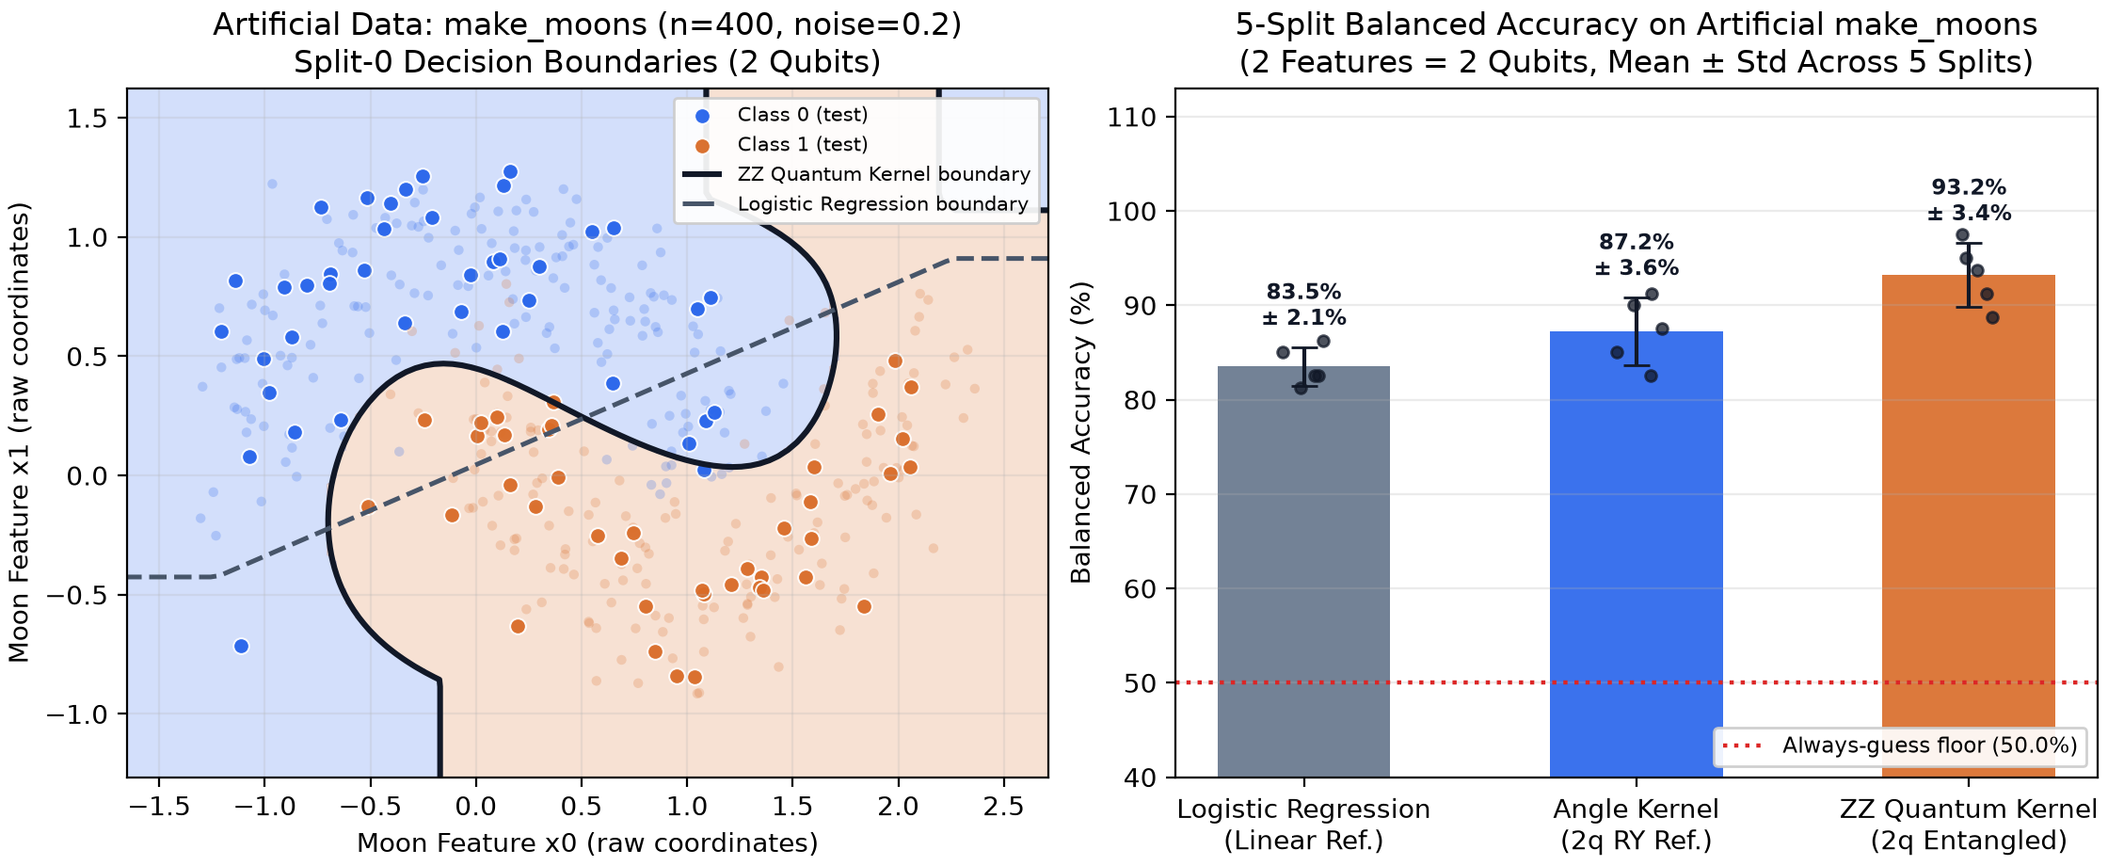
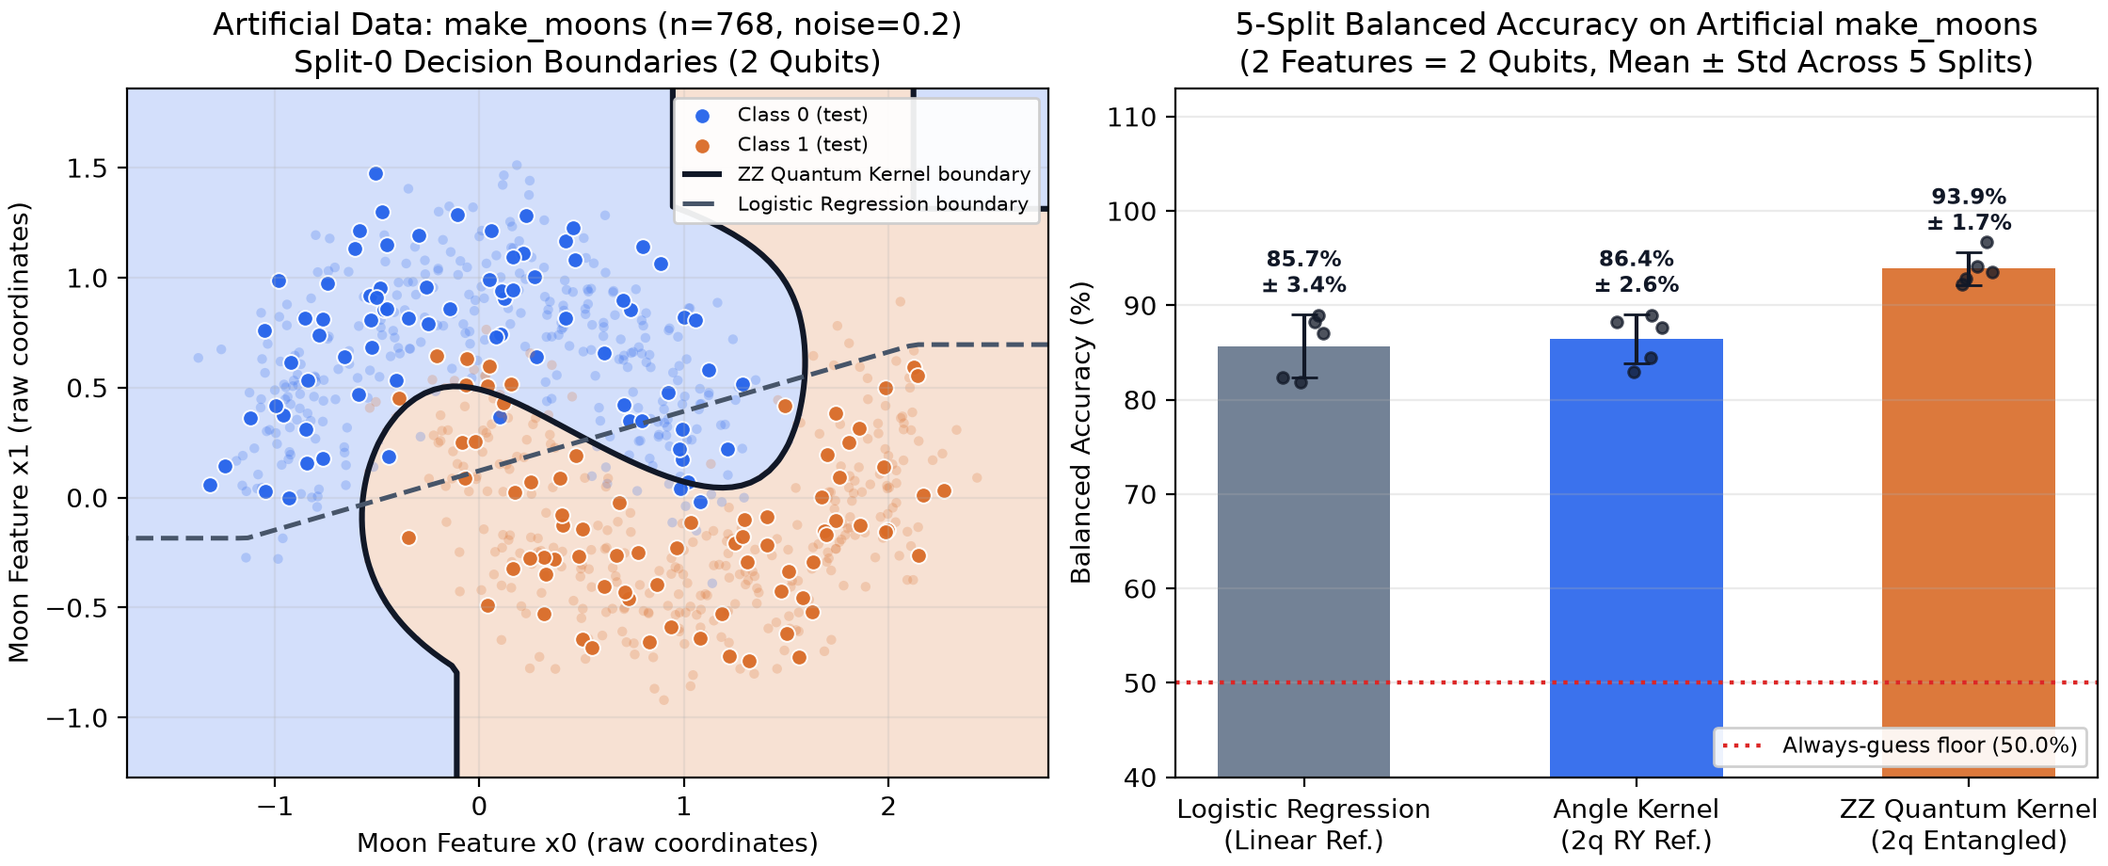
Experiment 5: moons data 400 -> 768 points, rerun, saved logreg/RBF/angle results, notes updated

diff --git a/src/run_exp_d.py b/src/run_exp_d.py
@@ -482,11 +482,50 @@ def report_exp2() -> None:
 
 
 # --------------------------------------------------------------------------- #
+# experiment 5 references: saved moons results for logreg, RBF SVM, angle kernel
+# --------------------------------------------------------------------------- #
+EXP5_REF_NAMES = ("exp5_logreg_moons", "exp5_rbf_svm_moons", "exp5_qkernel_angle_moons")
+
+
+def run_exp5_refs() -> None:
+    """Same data as C's runner (make_moons_dataset), first 5 exams, 2 columns.
+
+    Each model's make_model and PARAM_GRID are imported unchanged. Files go to
+    results/ next to C's results/exp5_qkernel_moons.csv; nothing is overwritten.
+    """
+    from src import model_logreg, model_qkernel, model_rbf_svm
+    from src.experiment_qkernel import make_moons_dataset
+
+    results_dir = ROOT / "results"
+    for name in EXP5_REF_NAMES:
+        _refuse_if_exists(results_dir / f"{name}.csv")
+
+    X_moons, y_moons = make_moons_dataset()
+    print(f"moons data: {X_moons.shape[0]} points, class counts {np.bincount(y_moons).tolist()}")
+    runs = (
+        ("exp5_logreg_moons", model_logreg.make_model, model_logreg.PARAM_GRID),
+        ("exp5_rbf_svm_moons", model_rbf_svm.make_model, model_rbf_svm.PARAM_GRID),
+        ("exp5_qkernel_angle_moons", lambda: model_qkernel.make_model(encoding="angle"),
+         model_qkernel.PARAM_GRID),
+    )
+    for name, factory, grid in runs:  # one at a time
+        summary = evaluate(
+            name, factory, grid,
+            n_features=2,
+            X=X_moons, y=y_moons,
+            zero_as_missing_cols=(),
+            n_splits_to_run=EXPERIMENT_EVAL_SPLITS,
+            results_dir=results_dir,
+        )
+        print(format_summary(summary), flush=True)
+
+
+# --------------------------------------------------------------------------- #
 def main() -> None:
     parser = argparse.ArgumentParser(description=__doc__,
                                      formatter_class=argparse.RawDescriptionHelpFormatter)
     parser.add_argument("task", choices=["exp3", "exp3-report", "exp1", "exp1-dials",
-                                         "exp1-report", "exp2", "exp2-report"])
+                                         "exp1-report", "exp2", "exp2-report", "exp5-refs"])
     parser.add_argument("--quick", action="store_true")
     parser.add_argument("--q", type=int, help="number of columns for exp1 (4 or 6)")
     args = parser.parse_args()
@@ -504,6 +543,8 @@ def main() -> None:
         run_exp2(args.quick)
     elif args.task == "exp2-report":
         report_exp2()
+    elif args.task == "exp5-refs":
+        run_exp5_refs()
 
 
 if __name__ == "__main__":

diff --git a/src/experiment_qkernel.py b/src/experiment_qkernel.py
@@ -637,8 +637,8 @@ def run_exp3_qkernel(
 
 
 def make_moons_dataset() -> tuple[np.ndarray, np.ndarray]:
-    """Return the artificial 2D curved positive-control dataset (400 points, noise=0.2)."""
-    X_moons, y_moons = make_moons(n_samples=400, noise=0.2, random_state=42)
+    """Return the artificial 2D curved positive-control dataset (768 points, noise=0.2)."""
+    X_moons, y_moons = make_moons(n_samples=768, noise=0.2, random_state=42)
     return np.asarray(X_moons, dtype=np.float64), np.asarray(y_moons, dtype=np.int64)
 
 
@@ -779,7 +779,7 @@ def plot_exp5_qkernel_moons(
     ax_boundary.set(
         xlabel="Moon Feature x0 (raw coordinates)",
         ylabel="Moon Feature x1 (raw coordinates)",
-        title="Artificial Data: make_moons (n=400, noise=0.2)\nSplit-0 Decision Boundaries (2 Qubits)",
+        title="Artificial Data: make_moons (n=768, noise=0.2)\nSplit-0 Decision Boundaries (2 Qubits)",
         xlim=(x0_min, x0_max),
         ylim=(x1_min, x1_max),
     )
@@ -937,7 +937,7 @@ def run_exp5_qkernel_moons(
         _summarize("logreg_ref", logreg_df),
     ]
 
-    print("=== Experiment 5 Metrics (Artificial make_moons, n=400, noise=0.2, 5 Splits) ===")
+    print("=== Experiment 5 Metrics (Artificial make_moons, n=768, noise=0.2, 5 Splits) ===")
     print(f"  Majority floor: {s_zz['majority_floor'] * 100.0:.2f}%")
     print(pd.DataFrame(summary_table).to_string(index=False))
 

diff --git a/notes/EXPERIMENTS_C.md b/notes/EXPERIMENTS_C.md
@@ -155,31 +155,36 @@
 
 ## Experiment 5: Curved-Data Positive Control (`make_moons`, Artificial Data, 2 Qubits)
 
+> **Data change (2026-11-28):** the moons data was changed from `400` to `768` points (`make_moons(n_samples=768, noise=0.2, random_state=42)` in `make_moons_dataset()`, `src/experiment_qkernel.py`) to match Pima's size, so every model trains on about `614` points per exam, as on Pima. Experiment 5 was rerun with the existing runner; every number below is from the 768-point run. The old 400-point numbers are kept only in the dated AI-use logs.
+>
+> **Saved reference files (2026-11-28):** `results/exp5_logreg_moons.csv`, `results/exp5_rbf_svm_moons.csv` and `results/exp5_qkernel_angle_moons.csv` were computed by Member D (`src/run_exp_d.py exp5-refs`) with each model's `make_model()` and `PARAM_GRID` imported unchanged, using C's `make_moons_dataset()`, the first 5 exams, `n_features=2` and `zero_as_missing_cols=()`. The saved logistic regression and angle files give the same numbers as the temporary references inside C's runner.
+
 ### B. Setup
-- **What changes**: Dataset switched from Pima medical records to the **artificial** 2D curved two-moons benchmark `sklearn.datasets.make_moons(n_samples=400, noise=0.2, random_state=42)` (`200` class-0 points, `200` class-1 points, exact `50.00%` majority floor), using `n_features=2` (`2` qubits) and `zero_as_missing_cols=()`.
-- **What stays the same**: Same shared harness (`src/evaluate.py`) with `n_splits_to_run=EXPERIMENT_EVAL_SPLITS` (`5` stratified splits, `seed=42`), leakage-free training-only `[0, pi]` rescaling, fixed `class_weight='balanced'`, and the exact same frozen `make_model()` + 8-combination `PARAM_GRID` (`C` in `[0.1, 1.0, 10.0, 100.0]`, `gamma` in `[0.5, 1.0]`). Matching-split references (`LogisticRegression` and `Angle` kernel) ran in a temporary directory for statistical comparison without writing extra files to `results/`.
+- **What changes**: Dataset switched from Pima medical records to the **artificial** 2D curved two-moons benchmark `sklearn.datasets.make_moons(n_samples=768, noise=0.2, random_state=42)` (`384` class-0 points, `384` class-1 points, exact `50.00%` majority floor), using `n_features=2` (`2` qubits) and `zero_as_missing_cols=()`. Each exam has `614`-`615` training and `153`-`154` test points.
+- **What stays the same**: Same shared harness (`src/evaluate.py`) with `n_splits_to_run=EXPERIMENT_EVAL_SPLITS` (`5` stratified splits, `seed=42`), leakage-free training-only `[0, pi]` rescaling, fixed `class_weight='balanced'`, and the exact same frozen `make_model()` + 8-combination `PARAM_GRID` (`C` in `[0.1, 1.0, 10.0, 100.0]`, `gamma` in `[0.5, 1.0]`). C's runner still computes matching-split references (`LogisticRegression` and `Angle` kernel) in a temporary directory; saved copies now also exist (see the note above).
 - **Prediction (written before inspecting results)**: Straight-line Logistic Regression can only draw one flat cut through curved moons, whereas the 2-qubit ZZ quantum kernel can draw a smooth curved boundary and should significantly beat Logistic Regression, proving the quantum kernel detects nonlinear structure when it exists.
 
 ### C & D. Quick Check & Time Estimate
 - **Quick check**: Ran `evaluate('exp5_qkernel_moons_quick', ..., n_features=2, quick=True, X=X_moons, y=y_moons, zero_as_missing_cols=(), n_splits_to_run=5)` cleanly (`5` splits) and immediately deleted `results/exp5_qkernel_moons_quick.csv`.
-- **Time estimate**: From `results/qkernel.csv` (`0.8274s/split` at 8 qubits on 768 rows), 5 splits at 2 qubits on 400 rows had an upper-bound estimate of **`4.14s` (`0.0690 min`)**, far below 20 minutes.
+- **Time estimate**: From `results/qkernel.csv` (`0.8274s/split` at 8 qubits on 768 rows), 5 splits at 2 qubits on 400 rows had an upper-bound estimate of **`4.14s` (`0.0690 min`)**, far below 20 minutes. *(This estimate was for the original 400-point run. The 768-point rerun of the whole runner, including references, kernel spread and figure, took about 26 s.)*
 
-### E. Results & Kernel Spread (Artificial `make_moons`, First 5 Splits, 2 Qubits)
+### E. Results & Kernel Spread (Artificial `make_moons`, 768 points, First 5 Splits, 2 Qubits)
 
 | Model | Splits | Accuracy (Mean ± Std) | Balanced Accuracy (Mean ± Std) | Macro F1 (Mean ± Std) | Train Time / Split |
 | :--- | :---: | :---: | :---: | :---: | :---: |
-| **ZZ Quantum Kernel (`results/exp5_qkernel_moons.csv`)** | 5 | 93.25% ± 3.38% | **93.25% ± 3.38%** | 93.24% ± 3.39% | 0.0834s ± 0.0075s |
-| **Angle Quantum Kernel (`2q RY` temp ref.)** | 5 | 87.25% ± 3.58% | **87.25% ± 3.58%** | 87.21% ± 3.64% | 0.0571s ± 0.0008s |
-| **Logistic Regression (Linear temp ref.)** | 5 | 83.50% ± 2.05% | **83.50% ± 2.05%** | 83.45% ± 2.08% | 0.0442s ± 0.0018s |
+| **ZZ Quantum Kernel (`results/exp5_qkernel_moons.csv`)** | 5 | 93.88% ± 1.75% | **93.88% ± 1.74%** | 93.88% ± 1.75% | 0.3399s ± 0.0093s |
+| **Angle Quantum Kernel (`results/exp5_qkernel_angle_moons.csv`)** | 5 | 86.46% ± 2.60% | **86.44% ± 2.60%** | 86.42% ± 2.61% | 0.3073s ± 0.0744s |
+| **Logistic Regression (`results/exp5_logreg_moons.csv`)** | 5 | 85.68% ± 3.36% | **85.66% ± 3.35%** | 85.65% ± 3.35% | 0.1760s ± 0.0537s |
+| **RBF SVM (`results/exp5_rbf_svm_moons.csv`)** | 5 | 96.10% ± 1.71% | **96.10% ± 1.71%** | 96.10% ± 1.71% | 0.1554s ± 0.0061s |
 
-*(Artificial dataset always-guess floor: `50.00%`. Best ZZ Quantum Kernel settings were `{"C": 100.0, "gamma": 0.5}` on all 5 splits, scoring `97.50%`, `88.75%`, `93.75%`, `91.25%`, and `95.00%`.)*
+*(Artificial dataset always-guess floor: `50.00%`. Best ZZ Quantum Kernel settings were `{"C": 100.0, "gamma": 0.5}` on all 5 splits, scoring `92.21%`, `93.51%`, `94.16%`, `96.71%`, and `92.81%` balanced accuracy. RBF SVM chose `{"C": 10, "gamma": 1.0}` on all 5 splits. Test sets are not always exactly half-and-half (`76`/`77` in exams 3 and 4), so accuracy and balanced accuracy differ slightly.)*
 
 **Kernel spread (`kernel_stats()` off-diagonal values across the 5 training splits, 2 qubits)**:
 
 | Encoding | `gamma = 0.5` Mean ± Std | `gamma = 0.5` Variance ± Std | `gamma = 1.0` Mean ± Std | `gamma = 1.0` Variance ± Std |
 | :--- | :---: | :---: | :---: | :---: |
-| **ZZ (2 reps)** | 0.7179 ± 0.0044 | 0.0351 ± 0.0009 | 0.4097 ± 0.0054 | 0.0731 ± 0.0006 |
-| **Angle (`RY`)** | 0.8489 ± 0.0033 | 0.0152 ± 0.0006 | 0.5570 ± 0.0067 | 0.0843 ± 0.0017 |
+| **ZZ (2 reps)** | 0.7246 ± 0.0019 | 0.0344 ± 0.0004 | 0.4120 ± 0.0032 | 0.0730 ± 0.0004 |
+| **Angle (`RY`)** | 0.8473 ± 0.0019 | 0.0156 ± 0.0004 | 0.5545 ± 0.0037 | 0.0857 ± 0.0011 |
 
 *(Measured check: 2-qubit ZZ kernel matched `hand_zz_2qubit_kernel()` within `2.665e-15` max difference on split 0.)*
 
@@ -187,15 +192,19 @@
 
 | Comparison (5 Matching `make_moons` Splits) | ZZ Kernel Mean ± Std | Reference Mean ± Std | Difference (`ZZ − ref`) | p-value | Conclusion |
 | :--- | :---: | :---: | :---: | :---: | :--- |
-| **ZZ Kernel vs. Logistic Regression (Linear)** | 93.25% ± 3.38% | 83.50% ± 2.05% | +9.75% | 0.0095 | **significant difference found (p < 0.05)** |
-| **ZZ Kernel vs. Angle Kernel (`RY`, Unentangled)** | 93.25% ± 3.38% | 87.25% ± 3.58% | +6.00% | 0.0299 | **significant difference found (p < 0.05)** |
+| **ZZ Kernel vs. Logistic Regression (Linear)** | 93.88% ± 1.74% | 85.66% ± 3.35% | +8.21% | 0.0203 | **significant difference found (p < 0.05)** |
+| **ZZ Kernel vs. Angle Kernel (`RY`, Unentangled)** | 93.88% ± 1.74% | 86.44% ± 2.60% | +7.44% | 0.0099 | **significant difference found (p < 0.05)** |
+| **ZZ Kernel vs. RBF SVM (classical, curved)** | 93.88% ± 1.74% | 96.10% ± 1.71% | -2.22% | 0.1887 | no significant difference found |
+| *(RBF SVM vs. Logistic Regression)* | *96.10% ± 1.71%* | *85.66% ± 3.35%* | *+10.43% (RBF − LogReg)* | *0.0113* | *significant difference found (p < 0.05)* |
 
 ### G. Figure
-- Saved to [`figures/exp5_qkernel.png`](../figures/exp5_qkernel.png) (left panel: split-0 curved ZZ vs. straight-line Logistic Regression decision boundaries on the artificial `make_moons` points; right panel: 5-split balanced accuracy ± std across models).
+- Saved to [`figures/exp5_qkernel.png`](../figures/exp5_qkernel.png) (left panel: split-0 curved ZZ vs. straight-line Logistic Regression decision boundaries on the artificial `make_moons` points; right panel: 5-split balanced accuracy ± std for Logistic Regression, Angle kernel and ZZ kernel). Regenerated on 2026-11-28 from the 768-point run.
+- The RBF SVM is **not** in this figure: adding it would need a change to the plotting function's inputs and to the runner, not just one extra bar, so the figure was left as C's code draws it. The RBF SVM numbers are in the tables above.
 
 ### H. Plain-Language Explanation
-- On curved **artificial** `make_moons` data (`n = 400`, `noise = 0.2`), the frozen 2-qubit ZZ quantum kernel reached **93.25%** balanced accuracy, significantly beating both straight-line **Logistic Regression** (`83.50%`, `+9.75%`, `p = 0.0095`) and unentangled **Angle (`RY`)** encoding (`87.25%`, `+6.00%`, `p = 0.0299`).
-- Unlike Experiment 3 on 8-qubit Pima (where ZZ and Angle showed no significant difference), the pairwise `x0 * x1` ZZ interaction clearly helps here because the two crescent moons genuinely curve around each other, and 2 qubits avoid high-qubit kernel concentration (`var = 0.035–0.073`).
+- On curved **artificial** `make_moons` data (`n = 768`, `noise = 0.2`), the frozen 2-qubit ZZ quantum kernel reached **93.88%** balanced accuracy, significantly beating both straight-line **Logistic Regression** (`85.66%`, `+8.21%`, `p = 0.0203`) and unentangled **Angle (`RY`)** encoding (`86.44%`, `+7.44%`, `p = 0.0099`).
+- A classical RBF SVM, which also draws curved boundaries, scored `96.10% ± 1.71%`, `2.22` points above the ZZ kernel; no significant difference found (`p = 0.1887`, 5 exams), so on this data the quantum kernel matches a good classical curved model rather than beating it.
+- Unlike Experiment 3 on 8-qubit Pima (where ZZ and Angle showed no significant difference), the pairwise `x0 * x1` ZZ interaction clearly helps here because the two crescent moons genuinely curve around each other, and 2 qubits avoid high-qubit kernel concentration (`var = 0.034–0.073`).
 - **Interpretation vs. Hypothesis**: This positive control proves our `QuantumKernelSVC` circuit and evaluation pipeline can learn strong curved boundaries cleanly; our **hypothesis** for why ZZ did not beat Logistic Regression on Pima (`73.97%` vs. `74.20%`) is that real Pima diabetes features have a mostly smooth, overlapping boundary rather than sharp interlocking curves.
 
 ---

diff --git a/notes/DESIGN_C.md b/notes/DESIGN_C.md
@@ -58,7 +58,8 @@ Full setups, predictions, per-split selected features, kernel spread tables, p-v
 - **Experiment 2 — Training Size (`30`, `60`, `120`, `200`; 10 draws each on fixed 154-patient test set)**: Tuned once on the `614`-patient pool (`fixed_params={'C': 1.0, 'gamma': 0.5}`). Balanced accuracy rose steadily from `66.33% ± 4.20%` (`n=30`) -> `67.19% ± 1.96%` (`n=60`) -> `68.34% ± 2.81%` (`n=120`) -> `69.72% ± 1.74%` (`n=200`) -> `72.04%` (`n=614` ref.), while draw-to-draw spread tightened by more than half.
 - **Experiment 3 — Encoding (`Angle RY` vs. `ZZ`; first 5 splits, 8 qubits)**: Angle scored `73.82% ± 3.08%` balanced accuracy vs. ZZ `72.01% ± 2.27%` (`+1.80%`, `p = 0.5006` -> **no significant difference found**), while running `>3x` faster (`0.2527s` vs. `0.8235s` per split) and avoiding ZZ's `6.5x` variance collapse at `gamma = 1.0`.
   - *Follow-up 25-split Angle run (`results/qkernel_angle.csv`, additional comparison run while `results/qkernel.csv` stays the planned primary run)*: `74.42% ± 4.06%` accuracy, **`74.68% ± 3.99%`** balanced accuracy, `73.15% ± 4.08%` macro F1 (`0.2607s/split`). On all `25` splits, `compare_models()` found **no significant difference found** vs. ZZ (`+0.71%`, `p = 0.6773`), Logistic Regression (`+0.47%`, `p = 0.7860`), or RBF SVM (`-0.31%`, `p = 0.7113`), and a **significant difference found (`p < 0.05`)** vs. VQC ZZ (`+11.61%`, `p = 0.0011`).
-- **Experiment 5 — Artificial `make_moons` Positive Control (`n=400`, `noise=0.2`, 2 qubits, 5 splits)**: ZZ Quantum Kernel reached **`93.25% ± 3.38%`** balanced accuracy, significantly outperforming straight-line **Logistic Regression** (`83.50% ± 2.05%`, `+9.75%`, `p = 0.0095`) and unentangled **Angle (`RY`)** (`87.25% ± 3.58%`, `+6.00%`, `p = 0.0299`). This verifies our ZZ kernel captures curved structure cleanly when present, supporting the **hypothesis** that Pima did not benefit from ZZ entanglement because its class boundary is smoother and more heavily overlapping.
+- **Experiment 5 — Artificial `make_moons` Positive Control (`n=768`, `noise=0.2`, 2 qubits, 5 splits)**: ZZ Quantum Kernel reached **`93.88% ± 1.74%`** balanced accuracy, significantly outperforming straight-line **Logistic Regression** (`85.66% ± 3.35%`, `+8.21%`, `p = 0.0203`) and unentangled **Angle (`RY`)** (`86.44% ± 2.60%`, `+7.44%`, `p = 0.0099`). A classical RBF SVM, which also draws curved boundaries, scored `96.10% ± 1.71%`, `2.22` points above the ZZ kernel; no significant difference found (`p = 0.1887`, 5 exams), so on this data the quantum kernel matches a good classical curved model rather than beating it. This verifies our ZZ kernel captures curved structure cleanly when present, supporting the **hypothesis** that Pima did not benefit from ZZ entanglement because its class boundary is smoother and more heavily overlapping.
+  - *Data change (2026-11-28):* the moons data was changed from `400` to `768` points to match Pima's size, so every model trains on about `614` points per exam; experiment 5 was rerun and the numbers above are from the 768-point run. The saved files `results/exp5_logreg_moons.csv`, `results/exp5_rbf_svm_moons.csv` and `results/exp5_qkernel_angle_moons.csv` were computed by Member D with each model's file unchanged, using C's `make_moons_dataset()`. The RBF SVM is not drawn in `figures/exp5_qkernel.png` (that would need more than one extra bar in C's plotting code).
 
 ---
 

diff --git a/notes/AI_USE_D.md b/notes/AI_USE_D.md
@@ -142,3 +142,17 @@ Team decision: main table = 25 splits for all models; experiments = first 5 spli
 - A's deleted run is known only from A's own AI log, not from a file (unverified).
 - The per-file commit for C's CSV and figure is unverified; where "768 patients" was agreed is unverified.
 - Nothing else was edited, created, deleted or committed.
+
+## Session 12: 2026-11-28: moons data 400 -> 768 points, experiment 5 rerun
+
+| Step | What the AI did | What was checked by running code |
+|---|---|---|
+| Search | Listed every place depending on the moons size or quoting moons numbers, before changing anything. | `git grep`. |
+| Data | Changed `make_moons(n_samples=400, ...)` to `768` in `make_moons_dataset()` (`src/experiment_qkernel.py`), plus its docstring, figure title and printed heading. No test depended on 400. | n/a |
+| Runs | Reran C's runner (`python -m src.experiment_qkernel --exp 5`, 26 s), which overwrote `results/exp5_qkernel_moons.csv` and `figures/exp5_qkernel.png`; then added and ran `src/run_exp_d.py exp5-refs` (7 s) to save `results/exp5_logreg_moons.csv`, `results/exp5_rbf_svm_moons.csv`, `results/exp5_qkernel_angle_moons.csv` with each model's file unchanged. One run at a time. | Read the four files and ran `compare_models`: ZZ 93.88%, angle 86.44%, logreg 85.66%, RBF SVM 96.10%; ZZ vs logreg p = 0.0203, ZZ vs angle p = 0.0099, RBF vs logreg p = 0.0113, ZZ vs RBF p = 0.1887 (no significant difference found). |
+| Text | Updated `notes/EXPERIMENTS_C.md`, `notes/DESIGN_C.md`, `PROJECT_CONTEXT.md`, the notebook's markdown and a top line in `notes/MOONS_CHECK.md`, using only numbers from the new files and output; added the user-approved RBF SVM sentence. | `pytest tests/test_qkernel.py tests/test_data.py tests/test_evaluate.py`: 42 passed in 17 s. |
+
+### Honest limits
+- The notebook's markdown was edited but the notebook was not re-executed, so its stored outputs still show the old 400-point table until it is re-run.
+- The RBF SVM is not in `figures/exp5_qkernel.png` (would need more than one extra bar in C's plotting code).
+- Dated AI logs (A, C, D) and the body of `MOONS_CHECK.md` still quote the 400-point numbers on purpose.

diff --git a/PROJECT_CONTEXT.md b/PROJECT_CONTEXT.md
@@ -54,4 +54,4 @@ Every model, quantum and classical, receives these exact same numbers.
 2. **Training Size**: `30`, `60`, `120`, `200` training patients on a fixed `20%` (`154`-patient) test set, `10` random draws each (`results/exp2_trainsize.csv`, `figures/exp2_trainsize.png`). Tune once on the `614`-patient pool and reuse via `fixed_params`.
 3. **Encoding**: Simple angle vs. ZZ-style for both Quantum Kernel and VQC (`results/exp3_encoding_kernel.csv`, `results/exp3_encoding_vqc.csv`, `figures/`).
 4. **Circuit Depth (spare, if time allows)**: VQC with `1`, `2`, `3` layers (`results/exp4_depth.csv`).
-5. **Curved-Data Control**: `sklearn.datasets.make_moons` (`~400` points, moderate noise, `2` qubits) through `evaluate()` (`results/exp5_moons.csv`, `figures/exp5_moons.png`), time-boxed to 2 hours.
+5. **Curved-Data Control**: `sklearn.datasets.make_moons` (`768` points, the same size as Pima, `noise=0.2`, `random_state=42`, `2` qubits; data from `make_moons_dataset()` in `src/experiment_qkernel.py`) through `evaluate()` (`results/exp5_qkernel_moons.csv`, `results/exp5_qkernel_angle_moons.csv`, `results/exp5_logreg_moons.csv`, `results/exp5_rbf_svm_moons.csv`, `figures/exp5_qkernel.png`), time-boxed to 2 hours.

diff --git a/notes/MOONS_CHECK.md b/notes/MOONS_CHECK.md
@@ -1,5 +1,7 @@
 # MOONS_CHECK: has anyone run experiment 5 (the moons control)?
 
+> **Update (2026-11-28, later):** the moons data was changed from 400 to 768 points in `make_moons_dataset()` and experiment 5 was rerun. Saved results now exist for the ZZ kernel, angle kernel, logistic regression and RBF SVM (`results/exp5_*_moons.csv`); see `notes/EXPERIMENTS_C.md`. The report below describes the earlier 400-point state and its numbers are out of date.
+
 Checked 2026-11-28, read-only (git commands only; no model, no experiment, no merge, no branch switch). Everything below comes from `git fetch --all --prune` (nothing new came in), `git ls-tree`, `git grep`, `git show` and `git log` on every branch. Anything I could not confirm is marked **unverified**.
 
 `git status` before starting: clean (nothing uncommitted).
